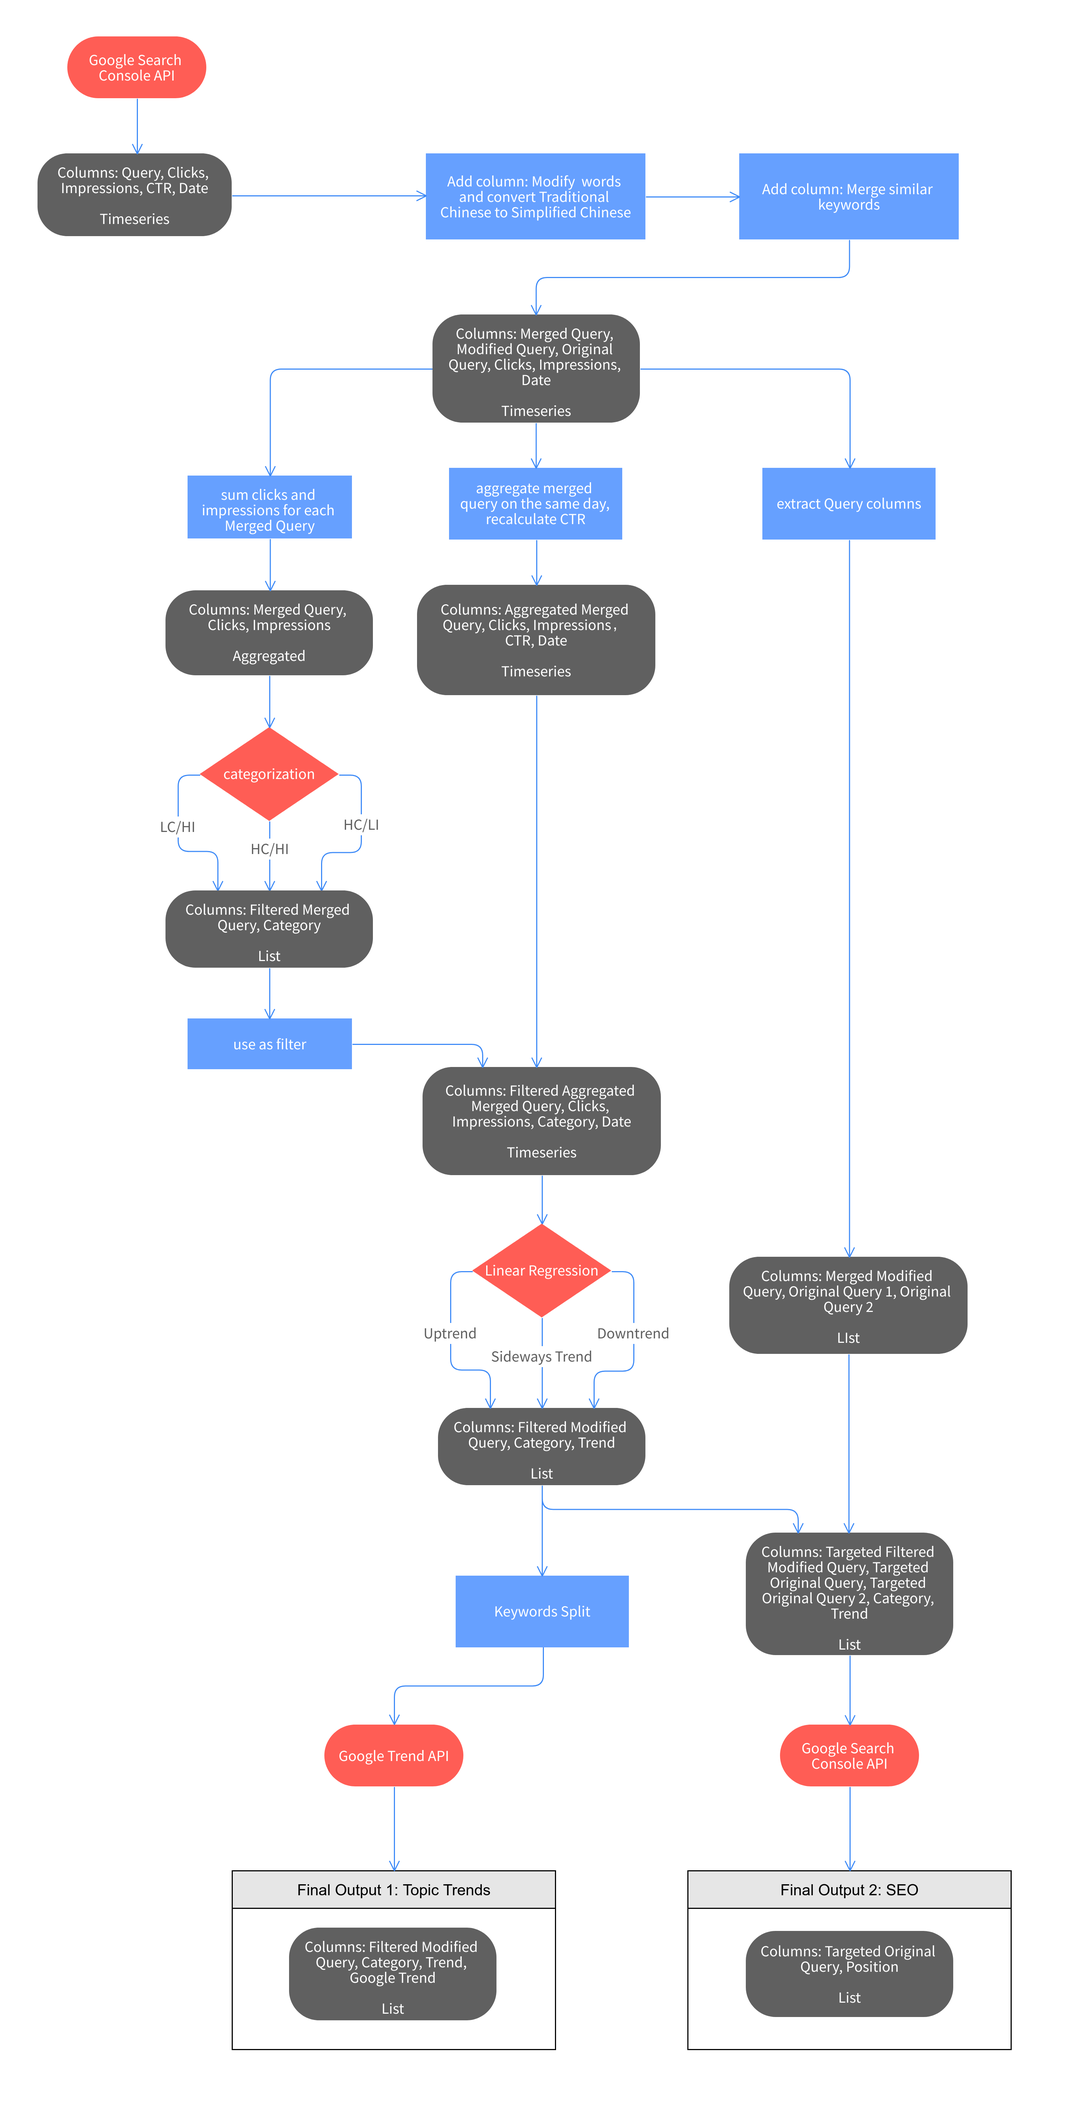
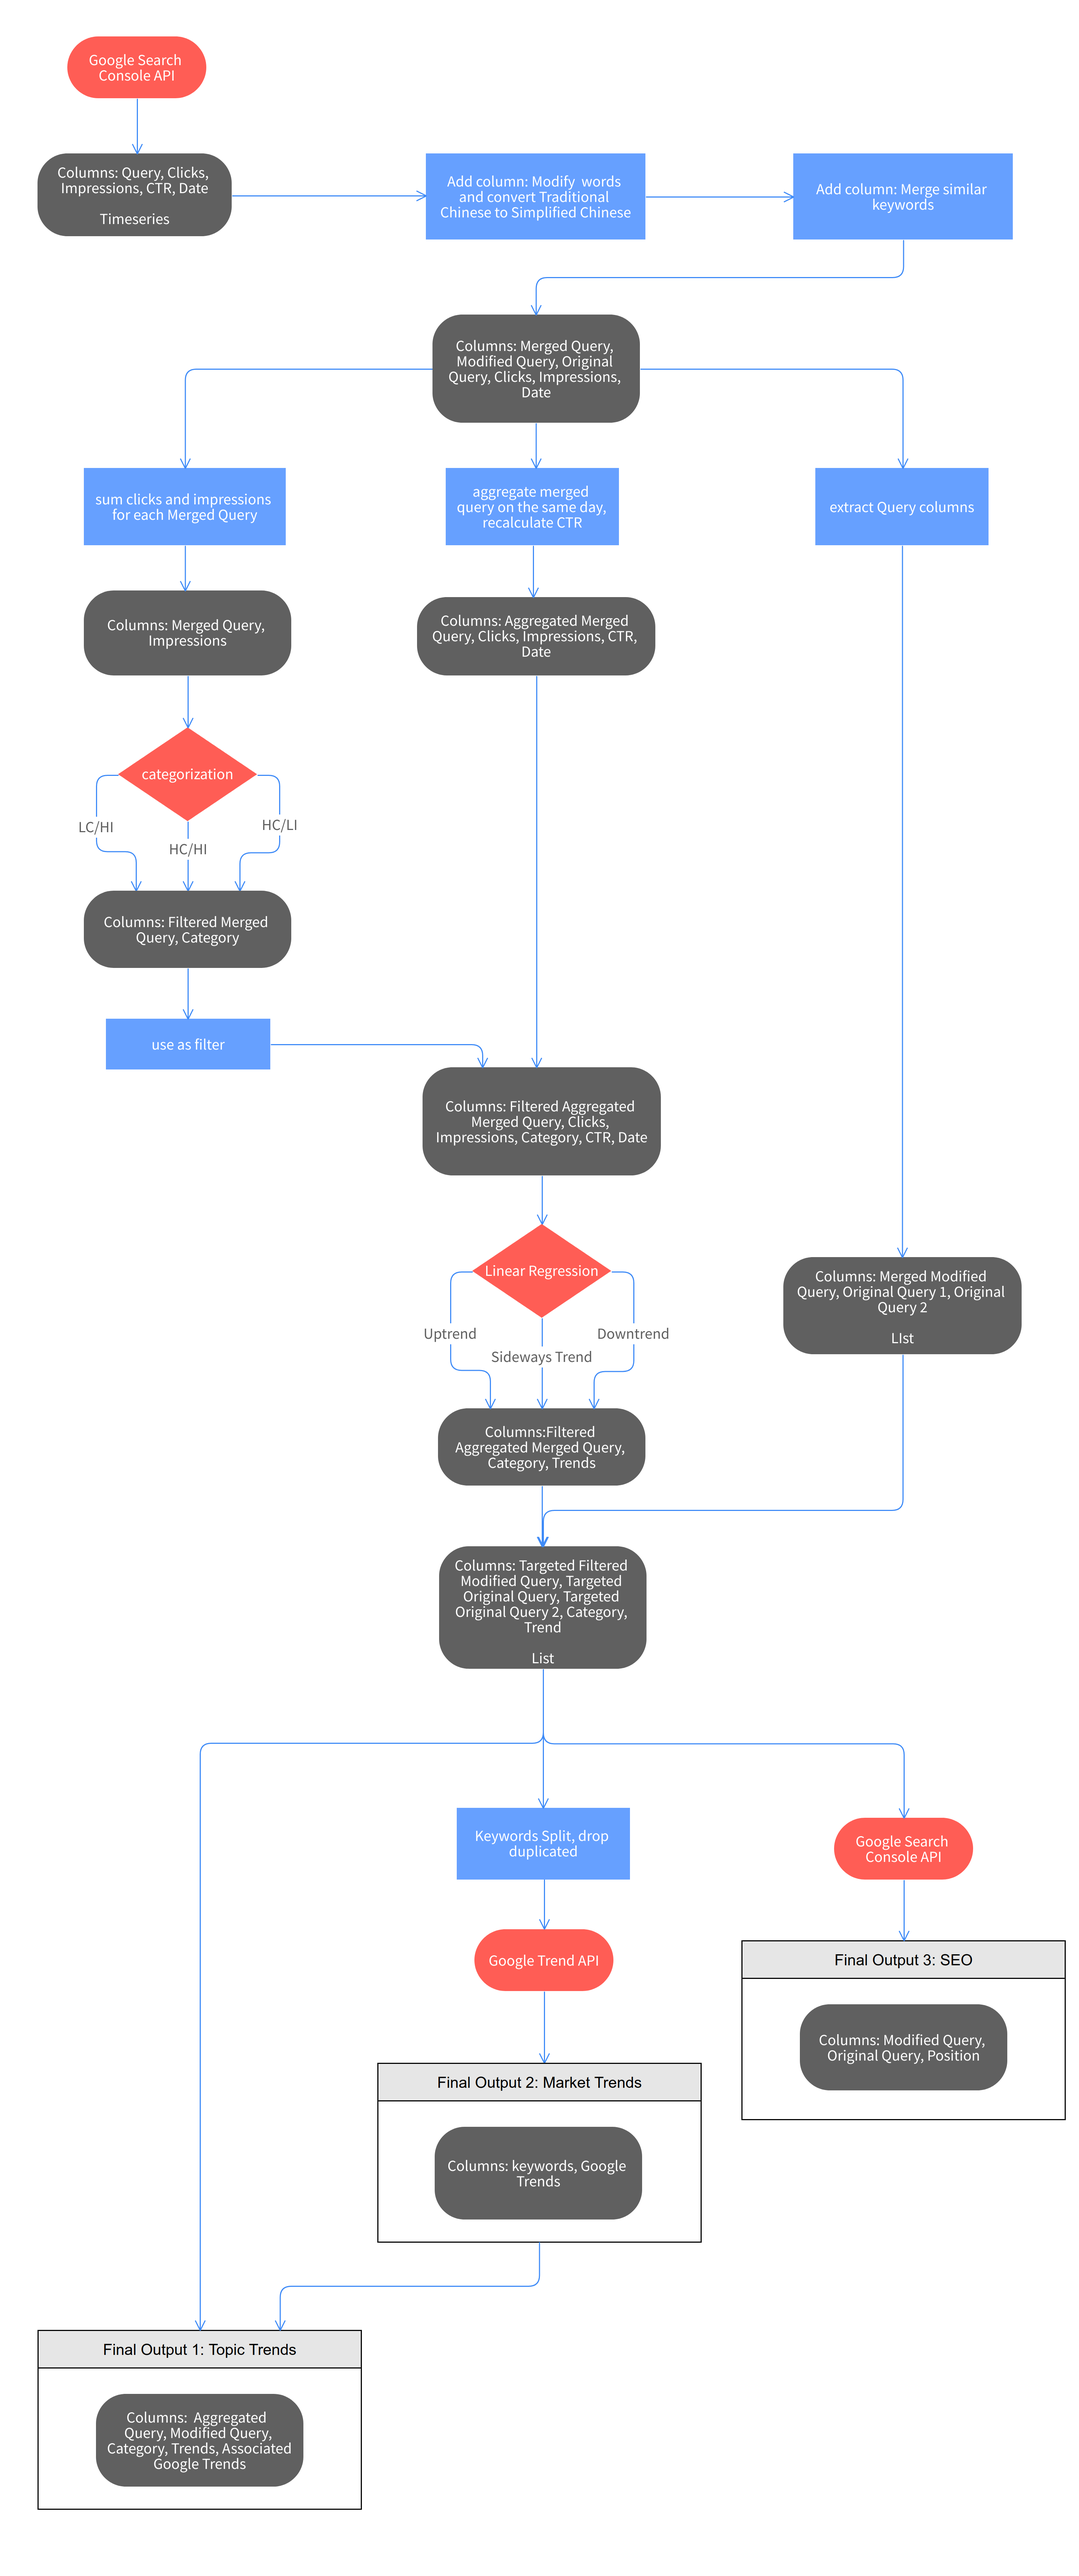
updated for newer process

diff --git a/query_analysis.py b/query_analysis.py
@@ -93,6 +93,8 @@ df = pd.merge(df, similar, how='left', on='modified_query')
 # record time
 timer3 = perf_counter()
 print(f"Total running time: {timer3 - timer1} Seconds")
+
+df.to_csv('prepared.csv')
 df
 
 # option 2: count words frequency
@@ -110,8 +112,10 @@ total_count = total_count.groupby('aggregated_query').sum().reset_index()
 
 # pick fixed number of rows
 # TODO: switch to dynamic picking
-top_clicks = total_count.nlargest(100, ['clicks'])
-top_impressions = total_count.nlargest(100, ['impressions'])
+top_clicks = total_count.nlargest(
+    int(round(len(total_count) * 0.2)), ['clicks'])
+top_impressions = total_count.nlargest(
+    int(round(len(total_count) * 0.2)), ['impressions'])
 
 # test df
 #hc_hi = pd.merge(top_clicks, top_impressions, how='inner', on=['modified_query'])[['modified_query', 'clicks_x', 'impressions_x']].rename(columns={'clicks_x': 'clicks', 'impressions_x': 'impressions'})
@@ -133,6 +137,16 @@ total_count.loc[total_count['aggregated_query'].isin(
 
 category_df = total_count.dropna(subset=['category'])
 category_df
+
+#%%
+#TODO:
+# split keywords, drop duplicated, and get Google Trends
+
+
+
+
+
+
 
 # --------------LEFT PATH END---------------
 
@@ -212,6 +226,51 @@ for index, row in slope.iterrows():
         slope.loc[index, 'trend'] = 'sideways trend' # including clicks or impressions p value > required value
 
 slope
+
+"""
+CTR version instead of clicks
+# CTR and impressions both uptrend = uptrend
+# mixed = sideways
+# both downtrend = downtrend
+
+# CTR linear regression
+ctr = pd.DataFrame(
+    columns=['aggregated_query', 'slope', 'intercept', 'r_value', 'p_value', 'std_err'])
+for query in slope_df['aggregated_query'].unique():
+    df_query = slope_df[slope_df['aggregated_query'] == query]
+    slope, intercept, r_value, p_value, std_err = stats.linregress(
+        df_query['date'], df_query['CTR'])
+    ctr = ctr.append({"aggregated_query": query, "slope": slope, "intercept": intercept,
+                                      "r_value": r_value, "p_value": p_value, "std_err": std_err}, ignore_index=True)
+ctr = ctr[ctr['p_value'] < 0.1]
+ctr.sort_values(
+    'slope', ascending=False, inplace=True)
+
+# impressions linear regression
+impressions = pd.DataFrame(
+    columns=['aggregated_query', 'slope', 'intercept', 'r_value', 'p_value', 'std_err'])
+for query in slope_df['aggregated_query'].unique():
+    df_query = slope_df[slope_df['aggregated_query'] == query]
+    slope, intercept, r_value, p_value, std_err = stats.linregress(
+        df_query['date'], df_query['impressions'])
+    impressions = impressions.append({"aggregated_query": query, "slope": slope, "intercept": intercept,
+                                                "r_value": r_value, "p_value": p_value, "std_err": std_err}, ignore_index=True)
+impressions = impressions[impressions['p_value'] < 0.1]
+impressions.sort_values(
+    'slope', ascending=False, inplace=True)
+
+# merge and identify trend
+slope = pd.merge(ctr, impressions, how='outer', on='aggregated_query')
+for index, row in slope.iterrows():
+    if row['slope_x'] > 0 and row['slope_y'] > 0:
+        slope.loc[index, 'trend'] = 'uptrend'
+    elif row['slope_x'] < 0 and row['slope_y'] < 0:
+        slope.loc[index, 'trend'] = 'downtrend'
+    else:
+        slope.loc[index, 'trend'] = 'sideways trend' # including clicks or impressions p value > required value
+
+slope
+"""
 
 #%%
 # TODO: Google Trends cross-reference
